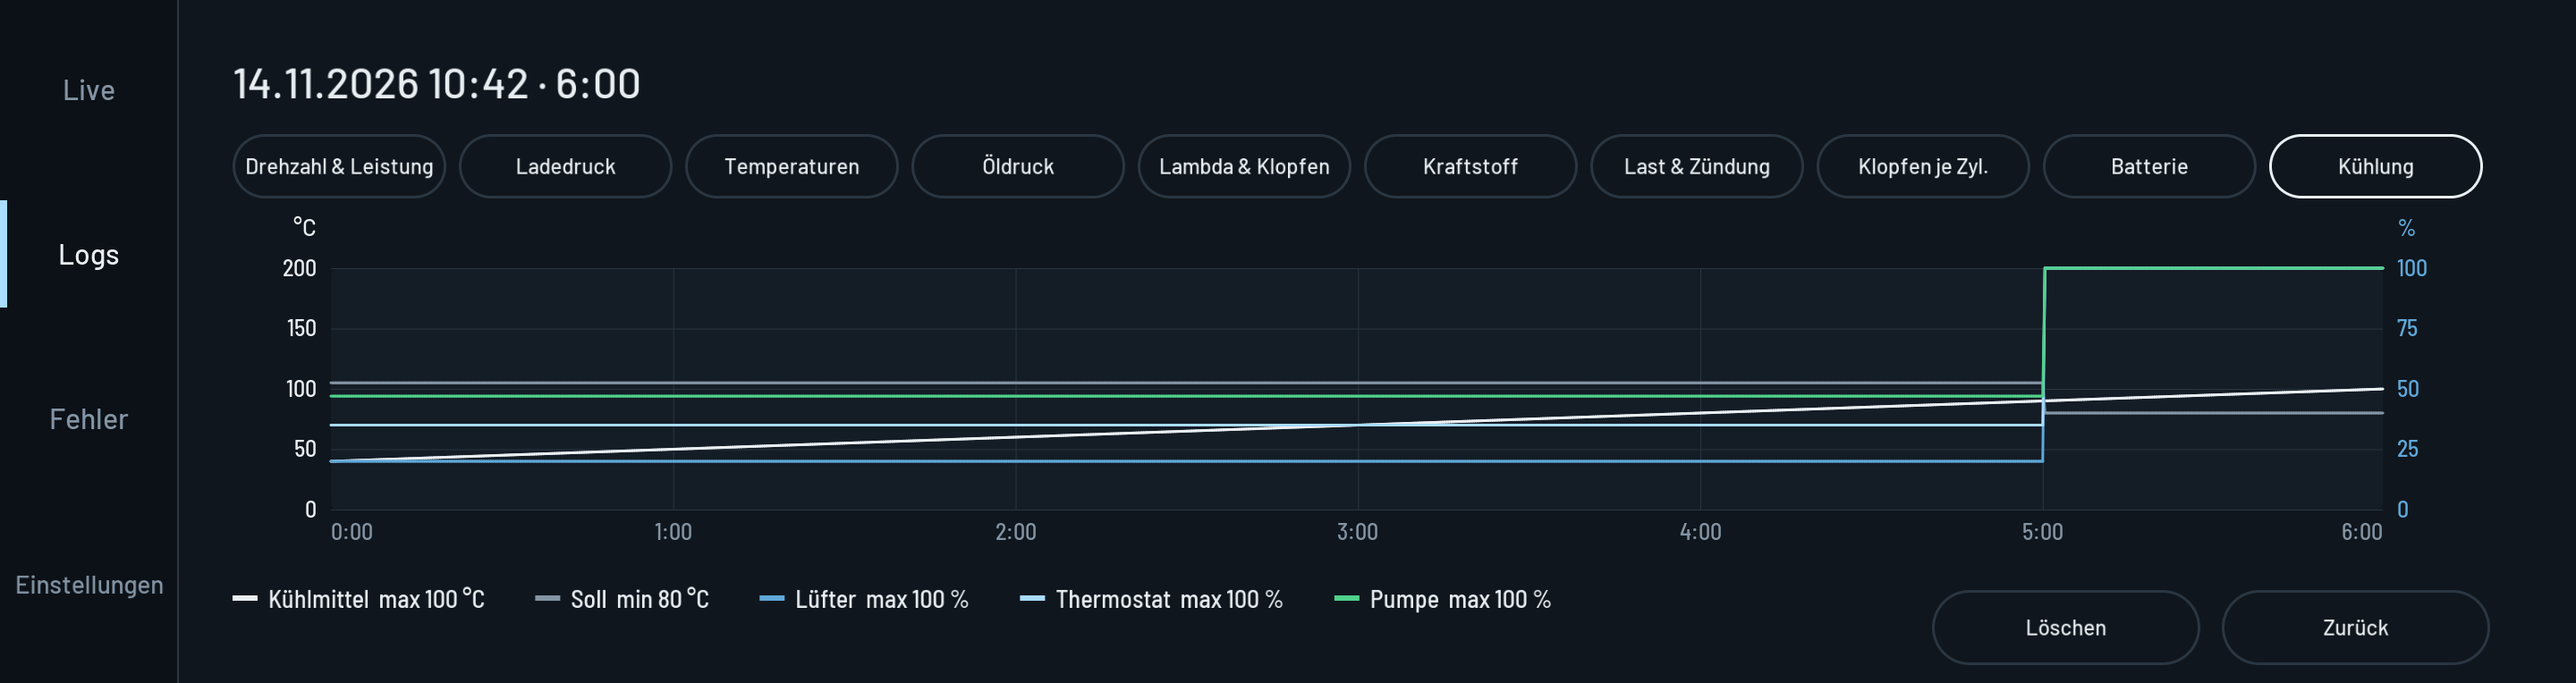
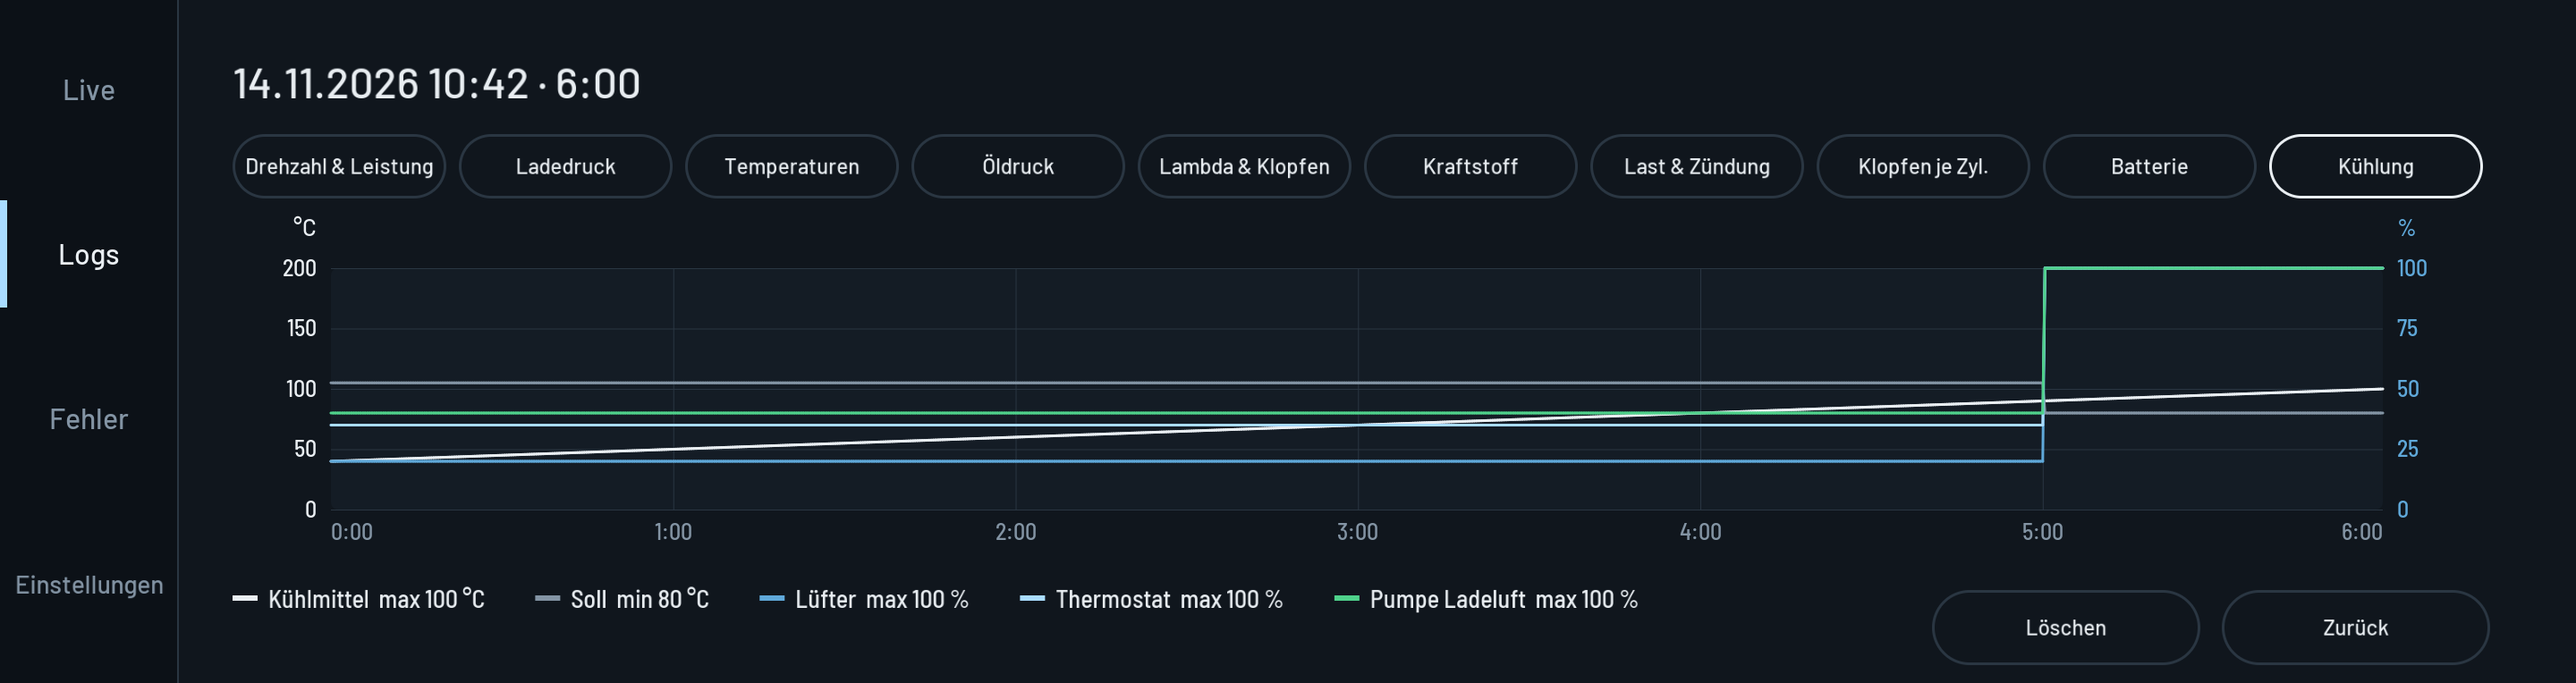
0.22.1: the cooling chart with the fan's LIN target where its duty is missing and the charge air cooling pump (the S58's main pump runs off the belt)

Changed region(s): [[0.125, 0.572, 0.7812, 0.6322], [0.5625, 0.8429, 0.625, 0.9031]]

diff --git a/apps/km_motordaten/src/motordaten.js b/apps/km_motordaten/src/motordaten.js
@@ -124,7 +124,7 @@ const ENGINE2_EVERY = 6;
 
 /* The cooling, with the slow ones (recorded, for the chart Kühlung): target, fan, thermostat, pumps. */
 const COOLING = [['coolTarget', 0x4310], ['fanDuty', 0x587F], ['fanRpm', 0x594F], ['thermostat', 0x4A74],
-    ['pumpTarget', 0x5910], ['pumpRpm', 0x58EA], ['pumpCharge', 0x5912]];
+    ['pumpTarget', 0x5910], ['pumpRpm', 0x58EA], ['pumpCharge', 0x5912], ['fanSet', 0x5594]];
 
 /* The battery, with the slow ones: its charge (a valid one is 0-100 %). */
 const BATTERY = [['battSoc', 0x5425]];
@@ -968,6 +968,10 @@ class Motordaten extends ListApp {
             pumpTarget: m.pumpTarget, pumpRpm: m.pumpRpm, pumpCharge: m.pumpCharge,
             // the pump's target as a share of its byte's range (the DME's own steps; 255 = full)
             pumpPct: isNum(m.pumpTarget) ? m.pumpTarget / 255 * 100 : null,
+            // the charge air cooling's electric pump (the S58's main coolant pump is driven by the belt)
+            pumpChargePct: isNum(m.pumpCharge) ? m.pumpCharge / 255 * 100 : null,
+            // the fan: its duty where the DME gives it, else its LIN target
+            fan: isNum(m.fanDuty) ? m.fanDuty : m.fanSet,
             battCurrent: m.battCurrent, battTemp: m.battTemp, battVoltage: isNum(m.battVoltage) && m.battVoltage > 5 ? m.battVoltage : null
         };
         // each cylinder's ignition below the earliest one: what the knock control takes back there

diff --git a/apps/km_motordaten/tools/preview.js b/apps/km_motordaten/tools/preview.js
@@ -35,7 +35,7 @@ function sampleLog() {
             knock: pull && (s - 300) % 10 > 7 ? 1.5 : 0, ignition: pull ? 8 - boost * 3 : 12, pedal: pull ? 100 : 4,
             load: pull ? 60 + boost * 40 : 18, battSoc: 78 + s / 90, battCurrent: s < 60 ? 30 - s / 2 : 4, battVoltage: 14.3,
             // Max Cooling from the pull on: the target drops, fan and thermostat go up
-            coolTarget: s > 300 ? 80 : 105, fanDuty: s > 300 ? 100 : 20, thermostat: s > 300 ? 100 : 35, pumpTarget: s > 300 ? 255 : 120, pumpPct: s > 300 ? 100 : 47,
+            coolTarget: s > 300 ? 80 : 105, fanDuty: s > 300 ? 100 : 20, thermostat: s > 300 ? 100 : 35, pumpTarget: s > 300 ? 255 : 120, pumpPct: s > 300 ? 100 : 47, fan: s > 300 ? 100 : 20, pumpChargePct: s > 300 ? 100 : 40,
             // cylinder 3 taken back a little at the top of each pull
             knockCyl1: 0, knockCyl2: pull ? 0.3 : 0, knockCyl3: pull && (s - 300) % 10 > 6 ? 2.5 : 0, knockCyl4: 0, knockCyl5: pull ? 0.4 : 0,
             knockCyl6: 0 }, t0 + t);

diff --git a/apps/km_motordaten/src/dash.js b/apps/km_motordaten/src/dash.js
@@ -895,8 +895,8 @@ const GROUPS = {
     // the cooling: the coolant against what the DME aims for, and how hard it drives fan, thermostat, pump
     cooling: { axes: { left: { unit: '°C', d: 0, floor: 160, color: C.text }, right: { unit: '%', d: 0, floor: 100, color: C.cold } },
         curves: [['coolant', C.text, 'left', 'Kühlmittel'], ['coolTarget', C.dim, 'left', 'Soll', 'min'],
-            ['fanDuty', C.cold, 'right', 'Lüfter'], ['thermostat', C.ice, 'right', 'Thermostat'],
-            ['pumpPct', C.ok, 'right', 'Pumpe']] }
+            ['fan', C.cold, 'right', 'Lüfter'], ['thermostat', C.ice, 'right', 'Thermostat'],
+            ['pumpChargePct', C.ok, 'right', 'Pumpe Ladeluft']] }
 };
 
 /* The smallest round number (1, 1.5, 2, 2.5, 3, 4, 5, 6, 8 x 10^n) at least v: its quarters stay round too. */

diff --git a/apps/km_motordaten/src/logbook.js b/apps/km_motordaten/src/logbook.js
@@ -21,7 +21,7 @@ const FIELDS = Object.freeze(['rpm', 'torque', 'power', 'boost', 'boostTarget', 
     // what the engine does (only recorded, not shown live)
     'lambda', 'lambdaTarget', 'rail', 'railTarget', 'fuelLow', 'knock', 'ignition', 'pedal', 'load', 'airMass',
     'throttle', 'fuelFlow', 'fuelTemp', 'knockCyl1', 'knockCyl2', 'knockCyl3', 'knockCyl4', 'knockCyl5', 'knockCyl6', 'battSoc', 'battCurrent', 'battVoltage',
-    'coolTarget', 'fanDuty', 'fanRpm', 'thermostat', 'pumpTarget', 'pumpRpm', 'pumpCharge', 'pumpPct']);
+    'coolTarget', 'fanDuty', 'fanRpm', 'thermostat', 'pumpTarget', 'pumpRpm', 'pumpCharge', 'pumpPct', 'fanSet', 'fan', 'pumpChargePct']);
 const SAMPLE_MS = 100;
 const FLUSH_MS = 1000;
 const MAX_MS = 30 * 60 * 1000;

diff --git a/apps/km_motordaten/src/decode.js b/apps/km_motordaten/src/decode.js
@@ -60,6 +60,7 @@ const DIDS = [
     { id: 0x5910, name: 'Wasserpumpe Soll', t: 'u8', k: 1, o: 0, u: '', d: 0 },
     { id: 0x58EA, name: 'Wasserpumpe Ist', t: 'u8', k: 1, o: 0, u: '', d: 0 },
     { id: 0x5912, name: 'Pumpe Ladeluftkühlung Soll', t: 'u8', k: 1, o: 0, u: '', d: 0 },
+    { id: 0x5594, name: 'Lüfter Sollwert', t: 's16', k: 0.01, o: 0, u: '%', d: 0 },
     // the ignition angle of each cylinder (the knock control takes it back per cylinder; the DME reports only the
     // mean of that, 0x554C): cylinders 1-6, 0x4A4B is not one of them
     { id: 0x4A49, name: 'Zündwinkel Zyl. 1', t: 's16', k: 0.1, o: 0, u: '°KW', d: 1 },

diff --git a/shared/decode.js b/shared/decode.js
@@ -60,6 +60,7 @@ const DIDS = [
     { id: 0x5910, name: 'Wasserpumpe Soll', t: 'u8', k: 1, o: 0, u: '', d: 0 },
     { id: 0x58EA, name: 'Wasserpumpe Ist', t: 'u8', k: 1, o: 0, u: '', d: 0 },
     { id: 0x5912, name: 'Pumpe Ladeluftkühlung Soll', t: 'u8', k: 1, o: 0, u: '', d: 0 },
+    { id: 0x5594, name: 'Lüfter Sollwert', t: 's16', k: 0.01, o: 0, u: '%', d: 0 },
     // the ignition angle of each cylinder (the knock control takes it back per cylinder; the DME reports only the
     // mean of that, 0x554C): cylinders 1-6, 0x4A4B is not one of them
     { id: 0x4A49, name: 'Zündwinkel Zyl. 1', t: 's16', k: 0.1, o: 0, u: '°KW', d: 1 },

diff --git a/docs/g87-s58.md b/docs/g87-s58.md
@@ -139,3 +139,6 @@ Kühlung (aus der DME8FF_R-Doku, im Auto noch nicht geprüft): 4310 Kühlmittel-
 0,0122 %), 594F Lüfter-Drehzahl (u8 × 20), 4A74 Kennfeldthermostat (s16 × 0,1 %), 5910 / 58EA Wasserpumpe Soll / Ist
 (u8, Stufen), 5912 Pumpe Ladeluftkühlung. Die App zeichnet sie auf (Diagramm Kühlung), um zu sehen, was MHDs Max
 Cooling ändert.
+Erste Messung mit MHD Max Cooling (1 min, Motor warm 80-86 °C): Kennfeldthermostat 0 % → 77-94 % beim Einschalten,
+zurück auf 0 beim Ausschalten; Kühlmittel-Soll auf 80 °C (vorher ~105 °C). 587F (Lüfter) ohne Wert, 5910 (el.
+Wasserpumpe) 0: der S58 pumpt mechanisch. Daher zusätzlich 5594 (LIN-Lüfter Sollwert) und 5912 (Pumpe Ladeluftkühlung).
